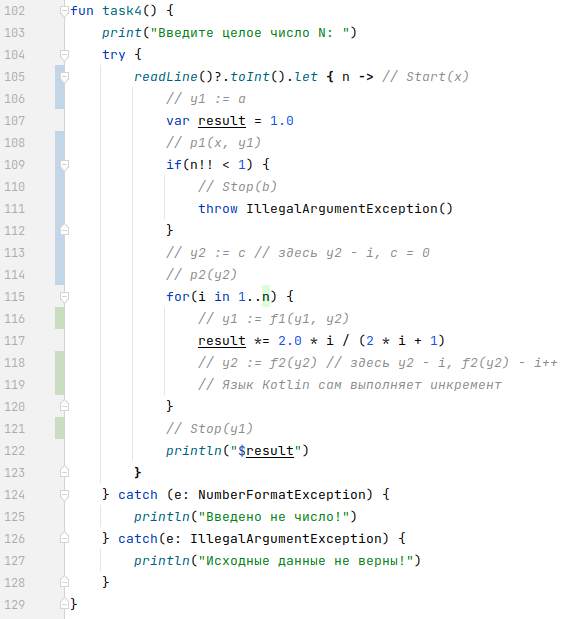
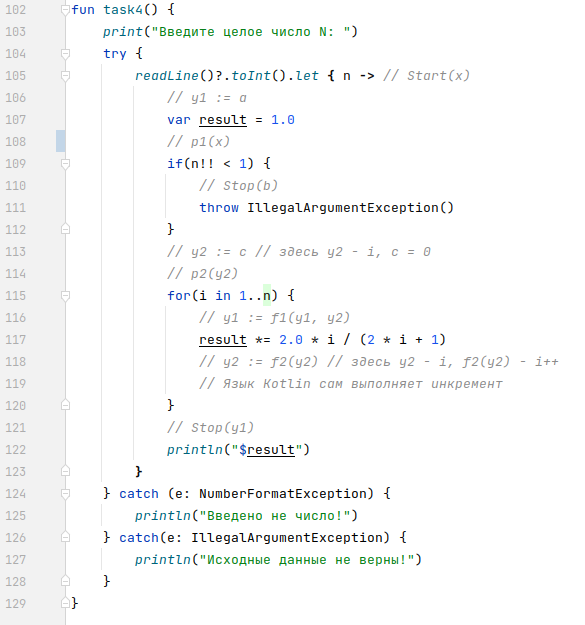
18:19 04.11.2021

diff --git a/Системное программирование/ЛР1/lr1/src/main/kotlin/Main.kt b/Системное программирование/ЛР1/lr1/src/main/kotlin/Main.kt
@@ -105,7 +105,7 @@ fun task4() {
         readLine()?.toInt().let { n -> // Start(x)
             // y1 := a
             var result = 1.0
-            // p1(x, y1)
+            // p1(x)
             if(n!! < 1) {
                 // Stop(b)
                 throw IllegalArgumentException()

diff --git a/Компьютерная графика/graphics/line/modes/CreateMode.cpp b/Компьютерная графика/graphics/line/modes/CreateMode.cpp
@@ -4,30 +4,29 @@
 #include <QAction>
 #include <QPainter>
 #include <QMouseEvent>
-#include <QColorDialog>
 
-#include "../figures/Line.h"
 #include "../Canvas.h"
-#include "../dialogs/WeightDialog.h"
+#include "../figures/Line.h"
 
-const QString COLOR("Изменить цвет");
-const QString WEIGHT("Изменить толщину");
-const QString MOVE("Переместить");
 const QString EDIT("Редактировать");
 const QString DELETE("Удалить");
 const QString DELLINES("Удалить линии");
 
 CreateMode::CreateMode() {
     lineMenu = new QMenu();
-    lineMenu->addAction(COLOR);
-    lineMenu->addAction(WEIGHT);
-    lineMenu->addAction(MOVE);
     lineMenu->addAction(EDIT);
     lineMenu->addAction(DELETE);
     canvasMenu = new QMenu();
     canvasMenu->addAction(DELLINES);
     connect(lineMenu, SIGNAL(triggered(QAction *)), this, SLOT(slotTriggered(QAction *)));
     connect(canvasMenu, SIGNAL(triggered(QAction *)), this, SLOT(slotTriggered(QAction *)));
+}
+
+void CreateMode::paint(QPainter* painter) {
+    ModeImpl::paint(painter);
+    if(activePoint && focusedPoint) {
+        painter->drawLine(*activePoint, *focusedPoint);
+    }
 }
 
 bool CreateMode::isActive(Line *line) {
@@ -41,10 +40,7 @@ bool CreateMode::isFocused(Line *line) {
 void CreateMode::mousePressEvent(QMouseEvent *event) {
     switch(event->button()) {
         case Qt::LeftButton:
-            if(activePoint) {
-                delete activePoint;
-                activePoint = nullptr;
-            }
+            remove(activePoint);
             activePoint = new QPoint(event->pos());
             break;
         case Qt::RightButton:
@@ -58,7 +54,8 @@ void CreateMode::mousePressEvent(QMouseEvent *event) {
 void CreateMode::mouseReleaseEvent(QMouseEvent *event) {
     switch(event->button()) {
         case Qt::LeftButton:
-            canvas->getLines().append(new Line(*activePoint, event->pos()));
+            canvas->getLines().append(new Line(*activePoint, *focusedPoint));
+            remove(activePoint);
             break;
         case Qt::RightButton:
             break;
@@ -67,6 +64,8 @@ void CreateMode::mouseReleaseEvent(QMouseEvent *event) {
 
 void CreateMode::mouseMoveEvent(QMouseEvent *event) {
     auto d = 10.;
+    remove(focusedPoint);
+    focusedPoint = new QPoint(event->pos());
     for(auto line : canvas->getLines()) {
         if(focusLine(line, event->pos(), d)) {
             focusedLine = line;
@@ -96,17 +95,7 @@ void CreateMode::contextMenuEvent(QContextMenuEvent *event) {
 }
 
 void CreateMode::slotTriggered(QAction *action) {
-    if(action->text() == COLOR) {
-        activeLine->setColor(QColorDialog::getColor(activeLine->getColor()));
-    } else if(action->text() == WEIGHT) {
-        WeightDialog *dialog = new WeightDialog(activeLine->getWeight());
-        if(dialog->exec() == QDialog::Accepted) {
-            activeLine->setWeight(dialog->width());
-        }
-        delete dialog;
-    } else if(action->text() == MOVE) {
-        canvas->setMode(Mode::move(activeLine));
-    } else if(action->text() == EDIT) {
+    if(action->text() == EDIT) {
         canvas->setMode(Mode::edit(activeLine));
     } else if(action->text() == DELETE) {
         canvas->getLines().removeOne(activeLine);
@@ -115,4 +104,11 @@ void CreateMode::slotTriggered(QAction *action) {
         canvas->setMode(Mode::remove());
     }
     activeLine = nullptr;
+}
+
+void CreateMode::remove(QPoint*& ptr) {
+    if(ptr) {
+        delete ptr;
+        ptr = nullptr;
+    }
 }

diff --git a/Компьютерная графика/graphics/dz6/Dz6.cpp b/Компьютерная графика/graphics/dz6/Dz6.cpp
@@ -3,12 +3,9 @@
 #include <QMenu>
 #include <QMouseEvent>
 #include <QMessageBox>
-#include <QContextMenuEvent>
 
 #include <Splines.h>
 #include <Graphic.h>
-
-#include <cmath>
 
 Dz6::Dz6() : QWidget() {
     setWindowTitle("Д/З №6");
@@ -99,7 +96,8 @@ void Dz6::contextMenuEvent(QContextMenuEvent *event) {
     } else {
         menu.addAction(add);
     }
-    QString res = menu.exec(event->globalPos())->text();
+    QAction *action = menu.exec(event->globalPos());
+    QString res = action ? action->text() : "";
     if(res == add) {
         QPoint p = event->pos();
         int i = minDistance(p);
@@ -110,8 +108,6 @@ void Dz6::contextMenuEvent(QContextMenuEvent *event) {
         } else {
             matrix.erase(focusedPoint->first);
         }
-        remove(focusedPoint);
-        remove(activePoint);
     }
 }
 

diff --git a/Компьютерная графика/graphics/line/Mode.cpp b/Компьютерная графика/graphics/line/Mode.cpp
@@ -8,13 +8,11 @@
 #include "Canvas.h"
 
 #include "modes/CreateMode.h"
-#include "modes/MoveMode.h"
 #include "modes/EditMode.h"
 #include "modes/RemoveMode.h"
 
 Canvas *Mode::canvas = nullptr;
 CreateMode *Mode::createInstance = nullptr;
-MoveMode *Mode::moveInstance = nullptr;
 EditMode *Mode::editInstance = nullptr;
 RemoveMode *Mode::removeInstance = nullptr;
 
@@ -31,10 +29,6 @@ TMode *Mode::instance(TMode *&mode, const std::function<void(void)>& task) {
 
 Mode* Mode::create() {
     return instance(createInstance);
-}
-
-Mode* Mode::move(Line* line) {
-    return instance(moveInstance);
 }
 
 Mode* Mode::edit(Line* line) {

diff --git a/Компьютерная графика/graphics/line/Mode.h b/Компьютерная графика/graphics/line/Mode.h
@@ -4,7 +4,6 @@
 
 class Line;
 class Canvas;
-class MoveMode;
 class EditMode;
 class CreateMode;
 class RemoveMode;
@@ -16,7 +15,6 @@ class QContextMenuEvent;
 class Mode {
 protected:
     static Canvas *canvas;
-    static MoveMode *moveInstance;
     static EditMode *editInstance;
     static CreateMode *createInstance;
     static RemoveMode *removeInstance;
@@ -32,7 +30,6 @@ public:
     virtual void contextMenuEvent(QContextMenuEvent *event) = 0;
 
     static Mode* create();
-    static Mode* move(Line* line);
     static Mode* edit(Line* line);
     static Mode* remove();
 

diff --git a/Компьютерная графика/graphics/line/modes/CreateMode.h b/Компьютерная графика/graphics/line/modes/CreateMode.h
@@ -12,10 +12,12 @@ private:
     QMenu *lineMenu;
     QMenu *canvasMenu;
     QPoint *activePoint = nullptr;
+    QPoint *focusedPoint = nullptr;
     Line *activeLine = nullptr;
     Line *focusedLine = nullptr;
 
 protected:
+    void paint(QPainter* painter) override;
     bool isActive(Line *line) override;
     bool isFocused(Line *line) override;
 
@@ -29,5 +31,8 @@ public:
 
 public slots:
     void slotTriggered(QAction *action);
+
+private:
+    static void remove(QPoint*& ptr);
 
 };
